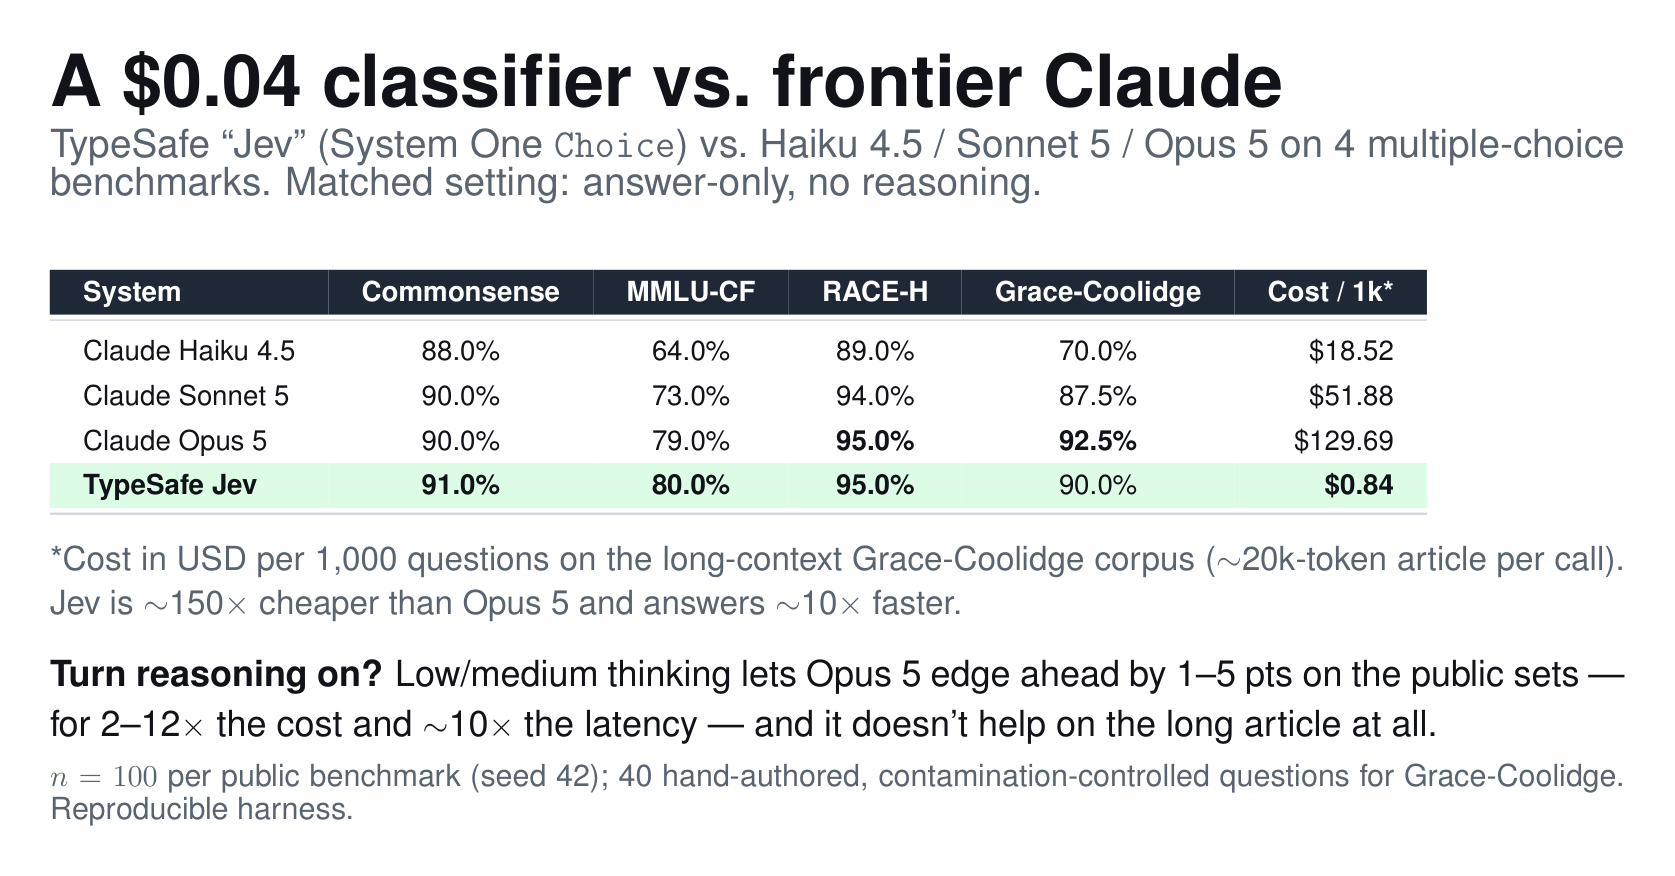
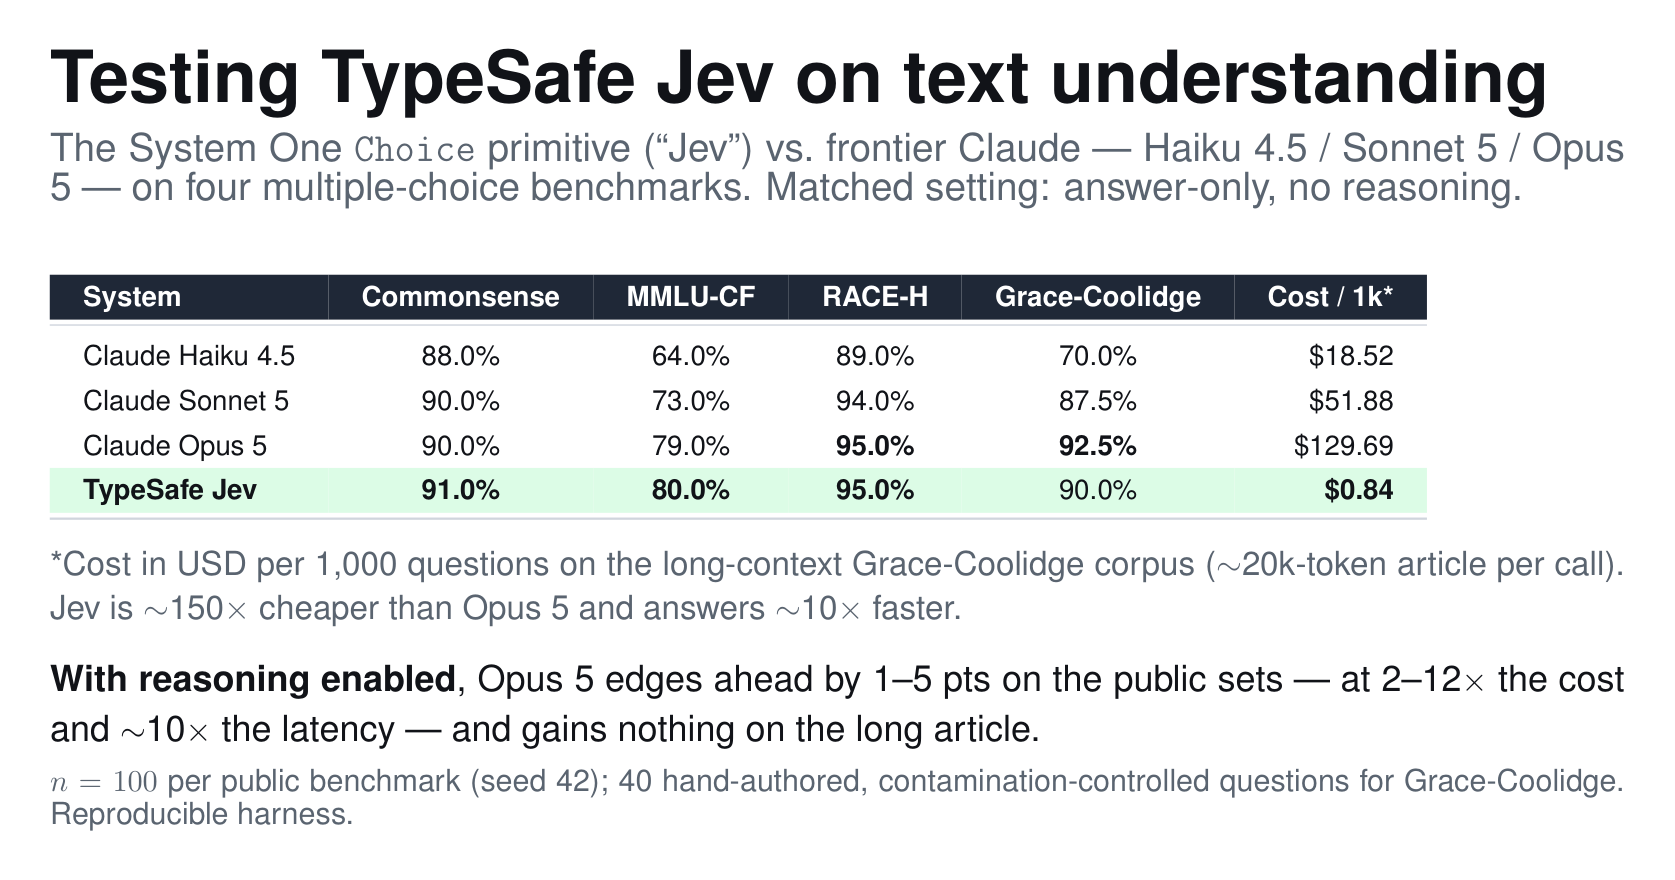
Rewrite Jev post: wider layout, measured essay voice

Changed region(s): [[0.031, 0.3082, 0.9624, 0.7089], [0.031, 0.7397, 0.9624, 0.9555], [0.031, 0.0308, 0.9934, 0.2466]]

diff --git a/posts/typesafe-jev-vs-claude.html b/posts/typesafe-jev-vs-claude.html
@@ -6,93 +6,92 @@
     <title>Testing TypeSafe Jev on Text Understanding &mdash; Veselin Stoyanov</title>
     <link rel="icon" type="image/x-icon" href="../favicon-32x32.png">
 
-    <!-- Open Graph / Twitter cards for nice link previews -->
+    <!-- Open Graph / Twitter cards for link previews -->
     <meta property="og:type" content="article">
     <meta property="og:title" content="Testing TypeSafe Jev on Text Understanding">
-    <meta property="og:description" content="TypeSafe's tiny 'Jev' classifier matches frontier Claude on multiple-choice accuracy at ~150x lower cost and ~10x lower latency. A reproducible, contamination-aware comparison.">
+    <meta property="og:description" content="Can a small, purpose-built classifier keep up with frontier chat models on reading and knowledge tasks? A reproducible, contamination-aware comparison of TypeSafe Jev against Claude Haiku 4.5, Sonnet 5, and Opus 5.">
     <meta property="og:image" content="https://vesstoyanov.com/posts/results-card.png">
     <meta property="og:url" content="https://vesstoyanov.com/posts/typesafe-jev-vs-claude.html">
     <meta name="twitter:card" content="summary_large_image">
     <meta name="twitter:title" content="Testing TypeSafe Jev on Text Understanding">
-    <meta name="twitter:description" content="A tiny typed classifier matches frontier Claude on multiple-choice accuracy at ~150x lower cost.">
+    <meta name="twitter:description" content="A small typed classifier matches frontier Claude on multiple-choice accuracy at a fraction of the cost and latency.">
     <meta name="twitter:image" content="https://vesstoyanov.com/posts/results-card.png">
 
     <style>
       *, *::before, *::after { box-sizing: border-box; margin: 0; padding: 0; }
+      :root { --accent: #2a7ab5; --accent-dark: #1a5a8a; --ink: #24292f; --muted: #6a737d; }
+      html { -webkit-text-size-adjust: 100%; }
       body {
         font-family: -apple-system, BlinkMacSystemFont, "Segoe UI", Roboto, Oxygen,
           Ubuntu, Cantarell, "Fira Sans", "Droid Sans", "Helvetica Neue", Arial, sans-serif;
-        font-size: 16px; line-height: 1.7; color: #3a3a3a; background: #f0f2f5;
+        font-size: 18px; line-height: 1.75; color: var(--ink); background: #fff;
         -webkit-font-smoothing: antialiased;
       }
-      a { color: #2a7ab5; text-decoration: none; transition: color 0.2s; }
-      a:hover { color: #1a5a8a; }
+      a { color: var(--accent); text-decoration: none; }
+      a:hover { color: var(--accent-dark); text-decoration: underline; }
 
-      .wrap { max-width: 760px; margin: 0 auto; padding: 28px 20px 60px; }
+      .wrap { max-width: 940px; margin: 0 auto; padding: 24px 28px 80px; }
 
-      .topbar { margin-bottom: 22px; font-size: 14px; }
-      .topbar a { color: #2a7ab5; font-weight: 500; }
+      .topbar { margin: 6px 0 30px; font-size: 15px; }
+      .topbar a { color: var(--accent); font-weight: 500; }
+      .topbar a:hover { text-decoration: none; }
 
-      article {
-        background: #fff; border-radius: 12px; padding: 40px 44px;
-        box-shadow: 0 4px 16px rgba(0,0,0,0.06);
+      header.post { border-bottom: 3px solid var(--accent); padding-bottom: 22px; margin-bottom: 34px; }
+      h1 { font-size: 40px; font-weight: 700; line-height: 1.15; letter-spacing: -0.02em;
+        color: var(--ink); margin-bottom: 14px; }
+      .subtitle { font-size: 20px; color: var(--muted); font-weight: 400; line-height: 1.5; }
+      .byline { font-size: 15px; color: var(--muted); margin-top: 16px; }
+
+      article { }
+      article p { margin: 0 0 22px; }
+      article > p:first-of-type { font-size: 19px; }
+
+      h2 { font-size: 26px; font-weight: 650; color: var(--ink); letter-spacing: -0.01em;
+        margin: 46px 0 16px; padding-left: 14px; border-left: 4px solid var(--accent); }
+
+      em { color: #33383e; }
+      strong { color: var(--ink); }
+
+      figure { margin: 30px 0; }
+      figure img { width: 100%; height: auto; border: 1px solid #e6e9ee; border-radius: 8px; }
+      figcaption { font-size: 14px; color: var(--muted); margin-top: 10px; text-align: center; }
+
+      pre.prompt {
+        background: #f6f8fa; border: 1px solid #e4e8ec; border-radius: 8px;
+        padding: 18px 20px; overflow-x: auto; font-size: 14px; line-height: 1.55;
+        font-family: ui-monospace, SFMono-Regular, "SF Mono", Menlo, Consolas, monospace;
+        color: #2b3138; margin: 8px 0 26px; white-space: pre;
       }
+      pre.prompt .lbl { color: var(--accent); font-weight: 600; }
 
-      h1 { font-size: 30px; font-weight: 700; color: #1c2530; line-height: 1.25;
-        letter-spacing: -0.01em; margin-bottom: 8px; }
-      .subtitle { font-size: 17px; color: #5b6470; margin-bottom: 14px; }
-      .byline { font-size: 13px; color: #9aa2ad; margin-bottom: 26px;
-        border-bottom: 1px solid #eee; padding-bottom: 20px; }
-
-      h2 { font-size: 21px; font-weight: 650; color: #222; margin: 34px 0 12px;
-        letter-spacing: -0.01em; }
-      p { margin-bottom: 14px; color: #444; }
-      strong { color: #222; }
-
-      .tldr {
-        background: #eaf3fa; border-left: 4px solid #2a7ab5; border-radius: 8px;
-        padding: 18px 22px; margin: 8px 0 28px;
-      }
-      .tldr h3 { font-size: 13px; text-transform: uppercase; letter-spacing: 0.06em;
-        color: #2a7ab5; margin-bottom: 8px; }
-      .tldr ul { margin: 0 0 0 18px; }
-      .tldr li { margin-bottom: 6px; color: #37414c; }
-
-      figure { margin: 24px 0; }
-      figure img { width: 100%; height: auto; border-radius: 10px;
-        border: 1px solid #e6e9ee; }
-      figcaption { font-size: 12.5px; color: #9aa2ad; margin-top: 8px; text-align: center; }
-
-      .table-scroll { overflow-x: auto; margin: 18px 0 6px; }
-      table.results { width: 100%; border-collapse: collapse; font-size: 14px;
-        min-width: 520px; }
-      table.results caption { caption-side: top; text-align: left;
-        font-size: 13px; color: #5b6470; margin-bottom: 8px; font-weight: 600; }
-      table.results th, table.results td { padding: 9px 12px; text-align: right;
-        border-bottom: 1px solid #eef1f4; white-space: nowrap; }
+      .table-scroll { overflow-x: auto; margin: 24px 0 8px; }
+      table.results { width: 100%; border-collapse: collapse; font-size: 16px; }
+      table.results caption { caption-side: top; text-align: left; font-size: 15px;
+        color: var(--muted); margin-bottom: 10px; font-weight: 600; }
+      table.results th, table.results td { padding: 10px 16px; text-align: right;
+        border-bottom: 1px solid #eceff2; white-space: nowrap; }
       table.results th:first-child, table.results td:first-child { text-align: left; }
-      table.results thead th { background: #2a7ab5; color: #fff; font-weight: 600;
+      table.results thead th { background: var(--accent); color: #fff; font-weight: 600;
         border-bottom: none; }
-      table.results thead th:first-child { border-top-left-radius: 6px; }
-      table.results thead th:last-child { border-top-right-radius: 6px; }
-      table.results tr.jev { background: #e8f6ee; }
-      table.results tr.jev td { font-weight: 700; color: #1c2530; }
-      table.results .best { font-weight: 700; color: #1c2530; }
-      table.results .grp td { border-top: 2px solid #dde3ea; }
-      .tnote { font-size: 12.5px; color: #9aa2ad; margin: 6px 0 22px; }
+      table.results tbody tr.jev { background: #e8f6ee; }
+      table.results tbody tr.jev td { font-weight: 700; }
+      table.results .best { font-weight: 700; }
+      table.results tr.grp td { border-top: 2px solid #dfe4e9; }
+      .tnote { font-size: 15px; color: var(--muted); margin: 8px 0 24px; }
 
-      .cta { display: inline-block; margin-top: 6px; margin-right: 10px;
-        background: #2a7ab5; color: #fff; padding: 9px 16px; border-radius: 8px;
-        font-weight: 600; font-size: 14px; }
-      .cta:hover { background: #1a5a8a; color: #fff; }
-      .cta.secondary { background: #eef2f6; color: #2a7ab5; }
-      .cta.secondary:hover { background: #e0e8ef; }
+      .cta { display: inline-block; margin-top: 8px; background: var(--accent); color: #fff;
+        padding: 11px 20px; border-radius: 8px; font-weight: 600; font-size: 16px; }
+      .cta:hover { background: var(--accent-dark); color: #fff; text-decoration: none; }
 
-      footer { text-align: center; color: #b7bcc4; font-size: 12px; padding-top: 26px; }
+      footer.post { margin-top: 46px; padding-top: 22px; border-top: 1px solid #eceff2;
+        font-size: 14px; color: var(--muted); }
 
-      @media (max-width: 600px) {
-        article { padding: 26px 20px; }
-        h1 { font-size: 24px; }
+      @media (max-width: 640px) {
+        body { font-size: 17px; }
+        .wrap { padding: 16px 18px 56px; }
+        h1 { font-size: 30px; }
+        .subtitle { font-size: 18px; }
+        h2 { font-size: 22px; }
       }
     </style>
   </head>
@@ -100,56 +99,72 @@
     <div class="wrap">
       <div class="topbar"><a href="../index.html">&larr; Veselin Stoyanov</a></div>
 
-      <article>
+      <header class="post">
         <h1>Testing TypeSafe Jev on Text Understanding</h1>
-        <p class="subtitle">A tiny typed classifier matched frontier Claude on multiple-choice
-          accuracy &mdash; at roughly 150&times; lower cost and 10&times; lower latency.</p>
-        <p class="byline">Veselin Stoyanov &middot; A reproducible, contamination-aware comparison</p>
+        <p class="subtitle">Can a small, purpose-built classifier keep up with frontier chat
+          models on reading and knowledge tasks? A reproducible, contamination-aware comparison.</p>
+        <p class="byline">Veselin Stoyanov</p>
+      </header>
 
-        <div class="tldr">
-          <h3>TL;DR</h3>
-          <ul>
-            <li>I compared TypeSafe&rsquo;s System One <em>Choice</em> primitive (&ldquo;Jev&rdquo;)
-              against the latest Claude models &mdash; Haiku&nbsp;4.5, Sonnet&nbsp;5, Opus&nbsp;5 &mdash;
-              on four multiple-choice benchmarks.</li>
-            <li>In a matched, answer-only setting, Jev is the top system on CommonsenseQA and MMLU-CF,
-              ties Opus&nbsp;5 on RACE-H, and lands one question behind Opus on a hand-authored corpus.</li>
-            <li>On long-context questions it&rsquo;s <strong>~150&times; cheaper</strong>
-              ($0.84 vs $129.69 per 1,000) and <strong>~10&times; faster</strong>.</li>
-            <li>Turning reasoning on lets Opus edge ahead by 1&ndash;5 points on the public sets &mdash;
-              for 2&ndash;12&times; the cost and ~10&times; the latency, and no gain on the long article.</li>
-          </ul>
-        </div>
+      <article>
+        <p>For most of my career, the workhorse of applied NLP was not a chatbot but a classifier
+          &mdash; a model trained to answer one narrow question and return a label. Frontier chat
+          models have become so capable, and so convenient, that it is now tempting to route every
+          task through them, including tasks that are, at their core, a choice among a handful of
+          options. I wanted to understand what that convenience really costs, and whether a small,
+          purpose-built classifier can still hold its own on accuracy.</p>
+
+        <p>The occasion was TypeSafe&rsquo;s System One primitives &mdash; compact models that take
+          some context and return a typed judgment rather than free text. Their <em>Choice</em>
+          primitive, which the team calls <strong>Jev</strong>, takes a passage and a question, is
+          given a set of options, and returns exactly one of them. That is precisely the shape of a
+          multiple-choice benchmark, so I set up a head-to-head against the current frontier Claude
+          models: Haiku&nbsp;4.5, Sonnet&nbsp;5, and Opus&nbsp;5.</p>
+
+        <p>There is a wrinkle in any comparison like this: the public benchmarks we reach for by
+          default may already sit in the models&rsquo; pretraining data, and the headline numbers we
+          remember are often a generation out of date. So I did two things. First, I re-ran every
+          model myself under a single fixed protocol rather than trusting stale leaderboards. Second,
+          I added two hedges against contamination &mdash; MMLU-CF, an explicitly contamination-free
+          variant of MMLU, and a small corpus I wrote by hand over a single long article, which I
+          describe later.</p>
 
         <figure>
-          <img src="results-card.png" alt="Results card: TypeSafe Jev vs Claude Haiku 4.5, Sonnet 5, Opus 5 across four multiple-choice benchmarks">
-          <figcaption>Matched setting (answer-only, no reasoning). Cost is USD per 1,000
-            long-context questions.</figcaption>
+          <img src="results-card.png" alt="Summary: TypeSafe Jev vs Claude Haiku 4.5, Sonnet 5, Opus 5 across four multiple-choice benchmarks, with accuracy and cost.">
+          <figcaption>A summary of the results. Cost is in USD per 1,000 long-context questions.</figcaption>
         </figure>
 
-        <h2>Why bother? Benchmarks may be memorized</h2>
-        <p>Public leaderboard numbers for reading-comprehension and knowledge benchmarks are both
-          <em>stale</em> (they predate the current model generation) and potentially
-          <em>contaminated</em> (test items may sit in pretraining data). So rather than trust
-          historical figures, I re-ran the current models myself under one fixed protocol, and added
-          two hedges against contamination: <strong>MMLU-CF</strong> (an explicitly contamination-free
-          MMLU variant) and <strong>Grace-Coolidge</strong>, a corpus I hand-authored over a single
-          long Wikipedia article where every wrong answer also appears in the text &mdash; so answering
-          requires reading, not recall.</p>
-
         <h2>The setup</h2>
-        <p>Four benchmarks: RACE-H (passage-grounded reading comprehension), CommonsenseQA (commonsense
-          knowledge), MMLU-CF (multi-domain knowledge, contamination-free), and Grace-Coolidge (40
-          hand-authored questions over a ~20k-token article). Every system sees identical items
-          (<em>n</em>&nbsp;=&nbsp;100 per public benchmark, fixed seed).</p>
-        <p><strong>Jev</strong> is the TypeSafe <em>Choice</em> primitive: state = passage + question,
-          options passed as the choice criteria. <strong>Claude</strong> is the Anthropic Messages API
-          with a system prompt requesting only the answer letter, run at three reasoning settings:
-          <em>none</em> (thinking disabled), <em>low</em>, and <em>medium</em>. Cost is metered from
-          actual token usage and priced at published rates (per 1M tokens: Jev $0.042 input / $0 output;
-          Haiku 1/5, Sonnet 2/10, Opus 5/25).</p>
+        <p>I used four benchmarks: RACE-H (passage-grounded reading comprehension), CommonsenseQA
+          (commonsense knowledge), MMLU-CF (multi-domain knowledge, contamination-free), and my own
+          Grace-Coolidge corpus. For the three public benchmarks I sampled 100 items each with a
+          fixed seed, so every system sees identical questions.</p>
 
-        <h2>Accuracy across all settings</h2>
+        <p>The two systems answer the same question in different ways. Jev receives the passage and
+          question as its state and the options as its choice criteria, and returns one option.
+          Claude receives a plain-text prompt and is asked, through a system instruction, to reply
+          with only the answer letter:</p>
+
+<pre class="prompt"><span class="lbl">System:</span> You are answering a multiple-choice question. Respond with ONLY
+the single letter of the correct option (one of the provided labels)
+and nothing else. No explanation.
+
+<span class="lbl">User:</span> Question: You can do knitting to get the feeling of what?
+Options:
+A. relaxation
+B. arthritis
+C. adrenaline
+D. your
+E. sweater may produced</pre>
+
+        <p>To keep the comparison honest, I first ran Claude with <em>no reasoning</em> &mdash;
+          extended thinking disabled and the output capped to a single letter &mdash; since that is
+          the apples-to-apples setting for a classifier. I revisit what happens when reasoning is
+          switched on further down. Cost is metered from actual token usage and priced at published
+          rates (per million tokens: Jev at $0.042 input and free output; Haiku 1/5, Sonnet 2/10,
+          Opus 5/25 for input/output).</p>
+
+        <h2>Accuracy</h2>
         <div class="table-scroll">
           <table class="results">
             <caption>Accuracy by system and dataset (measured, n = 100, seed 42).</caption>
@@ -170,11 +185,18 @@
             </tbody>
           </table>
         </div>
-        <p class="tnote">Among the no-reasoning configurations, Jev leads on CommonsenseQA and MMLU-CF
-          and ties Opus on RACE-H. With reasoning on, Opus (low) and Sonnet (medium) edge ahead by a
-          point or two &mdash; see the cost of doing so below.</p>
+        <p class="tnote">Reasoning tiers are shown together for completeness; the discussion below
+          starts with the no-reasoning rows.</p>
 
-        <h2>Cost tells the real story</h2>
+        <p>Among the no-reasoning configurations, Jev is the strongest system on CommonsenseQA and on
+          the contamination-free MMLU-CF, and it ties Opus&nbsp;5 on RACE-H, where the leading
+          systems are already at the human ceiling. For a model this small, matching the frontier on
+          plain accuracy was more than I expected going in.</p>
+
+        <h2>The cost of a correct answer</h2>
+        <p>Accuracy is only half the story. Jev bills for input tokens only and nothing for output,
+          whereas the chat models add five to twenty-five dollars per million output tokens on top of
+          costlier input.</p>
         <div class="table-scroll">
           <table class="results">
             <caption>Cost in USD per 1,000 questions (metered tokens &times; published rates).</caption>
@@ -195,17 +217,17 @@
             </tbody>
           </table>
         </div>
-        <p class="tnote">Jev bills input tokens only; chat models add $5&ndash;$25/1M output on top of
-          costlier input. Note the two thinking APIs price differently: gen-5 <em>adaptive</em> thinking
-          (Sonnet, Opus) spends only the tokens a question needs &mdash; often near zero on easy items
-          &mdash; while Haiku&rsquo;s fixed <em>budget</em> thinking spends up to the budget regardless,
-          inflating its cost tenfold for a two-point gain.</p>
+        <p>On the short public benchmarks Jev is already forty to a hundred times cheaper than
+          Opus&nbsp;5. As the next section shows, that gap widens dramatically once the context grows.</p>
 
-        <h2>The contamination-controlled corpus</h2>
-        <p>Grace-Coolidge supplies the whole article on every call and every distractor is an in-passage,
-          semantically valid name or value. The hard split adds negation, temporal-ordering, and
-          inference questions &mdash; several deliberately unanswerable (the correct answer is
-          &ldquo;Not enough information&rdquo;).</p>
+        <h2>A benchmark nothing could have memorized</h2>
+        <p>To be sure I was not simply measuring memorized test items, I hand-authored a corpus of 40
+          questions over the full Wikipedia article on Grace Coolidge. The whole article &mdash; about
+          twenty thousand tokens &mdash; is supplied on every call, and every wrong option is a real
+          name or value drawn from the text, so a model has to read rather than recall. Twenty of the
+          questions are straightforward; the other twenty add negation, temporal ordering, and
+          inference, and several are deliberately unanswerable, with &ldquo;Not enough
+          information&rdquo; as the correct choice.</p>
         <div class="table-scroll">
           <table class="results">
             <caption>Grace-Coolidge (n = 40): accuracy, latency, and cost (~20k-token article per call).</caption>
@@ -226,23 +248,41 @@
             </tbody>
           </table>
         </div>
-        <p class="tnote">On the easy split every system except no-reasoning Haiku scores 100%; the hard
-          split is the discriminator. Reasoning&rsquo;s clearest win here is repairing Haiku&rsquo;s
-          no-reasoning penalty (70% &rarr; 90%); it doesn&rsquo;t help Sonnet or Opus, and because the
-          article dominates the token bill, turning it on barely moves cost.</p>
+        <p>Here the long context is the whole point, and it is where the economics become stark. Jev
+          answers at 90% accuracy &mdash; a single hard question behind the best Claude &mdash; for 84
+          cents per thousand questions, against roughly $130 for Opus&nbsp;5. That is about a hundred
+          and fifty times cheaper, at a tenth of the latency, because the twenty-thousand-token
+          article is billed once as input rather than paid for again on the output side.</p>
 
-        <h2>Takeaway</h2>
-        <p>For high-volume classification and labeling in production, a small typed primitive can match
-          frontier accuracy at a tiny fraction of the cost and latency. Pay frontier-chat prices for
-          open-ended generation &mdash; not for picking one of five options. Reasoning is a real lever
-          for the frontier models on quantitative questions, but it buys a point or two at a steep
-          multiple, and does nothing on long-context reading.</p>
+        <h2>Does reasoning change the picture?</h2>
+        <p>The obvious objection is that I hobbled the chat models by disabling reasoning, so I ran
+          each of them again at <em>low</em> and <em>medium</em> reasoning effort (the extra rows in
+          the tables above). Reasoning helps most on the quantitative MMLU-CF questions &mdash; Opus
+          rises from 79% to 84%, Sonnet from 73% to 79% &mdash; and it is enough to let Opus edge
+          past Jev by a point or two on the public benchmarks. But the gains are small, and they are
+          not free: cost roughly doubles and latency stays around two seconds, an order of magnitude
+          slower than Jev.</p>
+        <p>On the long Grace-Coolidge article, reasoning does not help at all &mdash; Sonnet and Opus
+          stay flat or dip slightly &mdash; and because the article dominates the token bill, turning
+          it on barely changes the cost. The one clear benefit is that reasoning repairs a failure
+          mode of the no-reasoning setup: the smaller models sometimes begin working the problem in
+          their visible output and get truncated, and thinking gives them somewhere to do that work.
+          Jev never has this problem, because a <em>Choice</em> primitive returns a label by
+          construction.</p>
 
-        <p style="margin-top:24px;">
-          <a class="cta" href="typesafe-jev-vs-claude.pdf">Read the full paper (PDF)</a>
-        </p>
+        <h2>What I take away</h2>
+        <p>None of this says frontier chat models are unnecessary &mdash; for open-ended generation
+          they are indispensable. But a great deal of production NLP is not generation; it is
+          classification, routing, extraction, and labeling. For that kind of work, this experiment
+          is a reminder that a small, typed primitive can match frontier accuracy at a tiny fraction
+          of the cost and latency, and without the fragility that comes from asking a chat model to
+          behave like a classifier. It is worth paying frontier prices for open-ended reasoning
+          &mdash; and worth not paying them to pick one of five options.</p>
 
-        <footer>&copy; Veselin Stoyanov &middot; results regenerated from a fixed-seed, reproducible harness.</footer>
+        <p><a class="cta" href="typesafe-jev-vs-claude.pdf">Read the full write-up (PDF)</a></p>
+
+        <footer class="post">All results were regenerated from a fixed-seed, reproducible harness;
+          accuracy, latency, and cost are measured, not quoted from leaderboards.</footer>
       </article>
     </div>
   </body>
